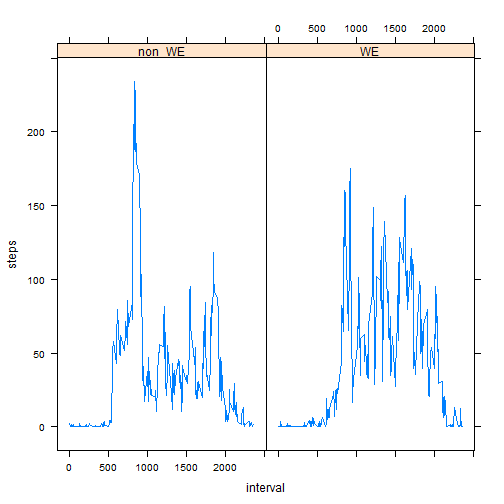
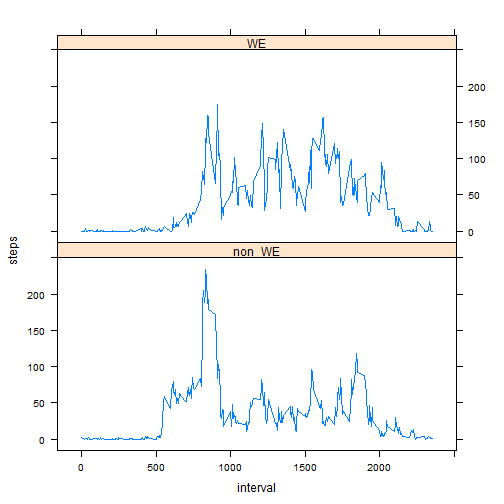
XXXX

diff --git a/RepData_PeerAssessment1_mkd.html b/RepData_PeerAssessment1_mkd.html
@@ -361,10 +361,10 @@ head(samdataw[order(samdataw$date),],n=10)
 <pre><code class="r">stp_interv_we&lt;-aggregate(dataw$steps, by=list(dataw$interval,dataw$is_we), &quot;mean&quot;,na.rm=TRUE, na.action=NULL)
 colnames(stp_interv_we)&lt;-c(&quot;interval&quot;,&quot;is_we&quot;,&quot;steps&quot;)
 
-xyplot(steps~interval|is_we, data=stp_interv_we, type=&quot;l&quot;)
+xyplot(steps~interval|is_we, data=stp_interv_we, type=&quot;l&quot;,layout=c(1,2))
 </code></pre>
 
[2 lines of base64/hex data omitted]
 
 </body>
 

diff --git a/RepData_PeerAssessment1_mkd.md b/RepData_PeerAssessment1_mkd.md
@@ -189,7 +189,7 @@ head(samdataw[order(samdataw$date),],n=10)
 stp_interv_we<-aggregate(dataw$steps, by=list(dataw$interval,dataw$is_we), "mean",na.rm=TRUE, na.action=NULL)
 colnames(stp_interv_we)<-c("interval","is_we","steps")
 
-xyplot(steps~interval|is_we, data=stp_interv_we, type="l")
+xyplot(steps~interval|is_we, data=stp_interv_we, type="l",layout=c(1,2))
 ```
 
 ![plot of chunk unnamed-chunk-15](figure/unnamed-chunk-15-1.png) 
